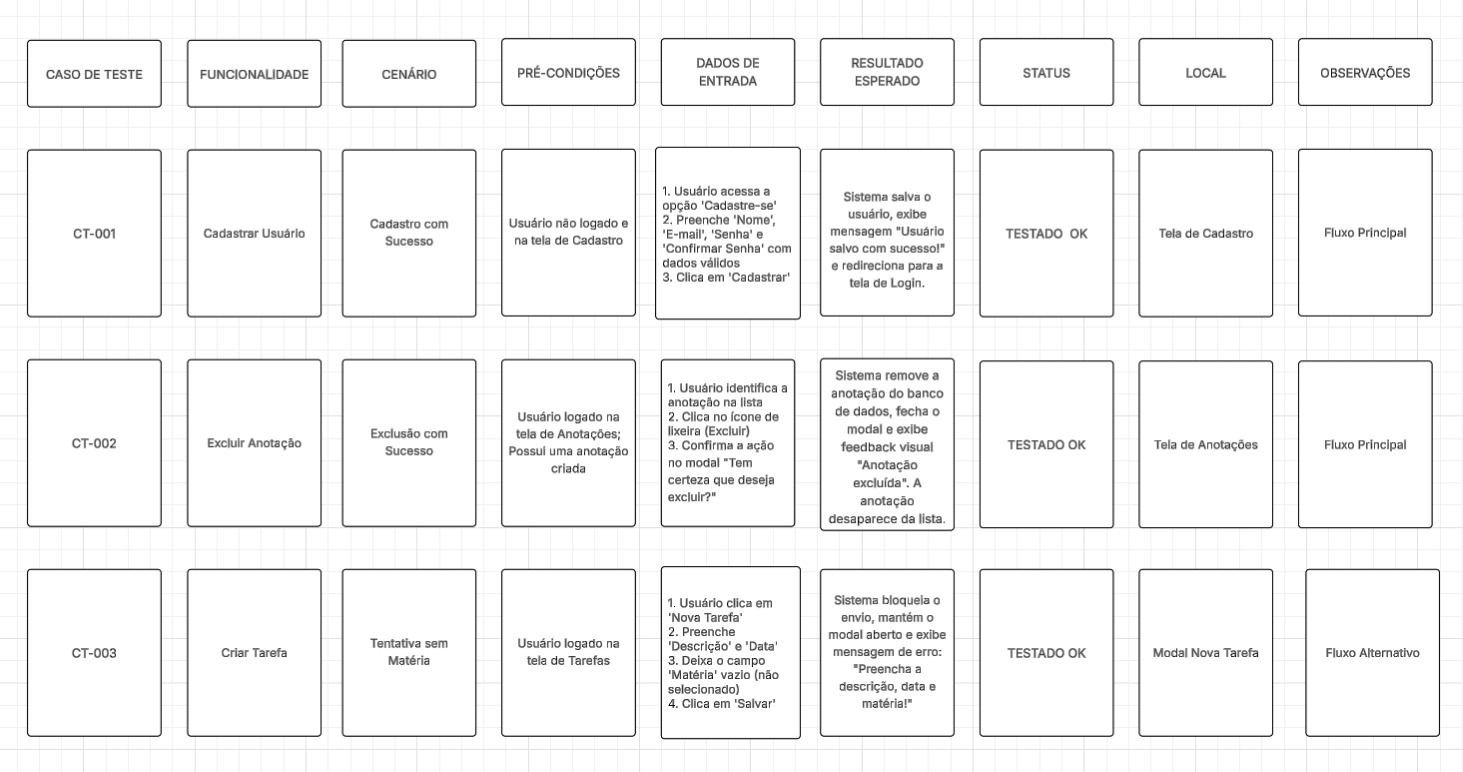
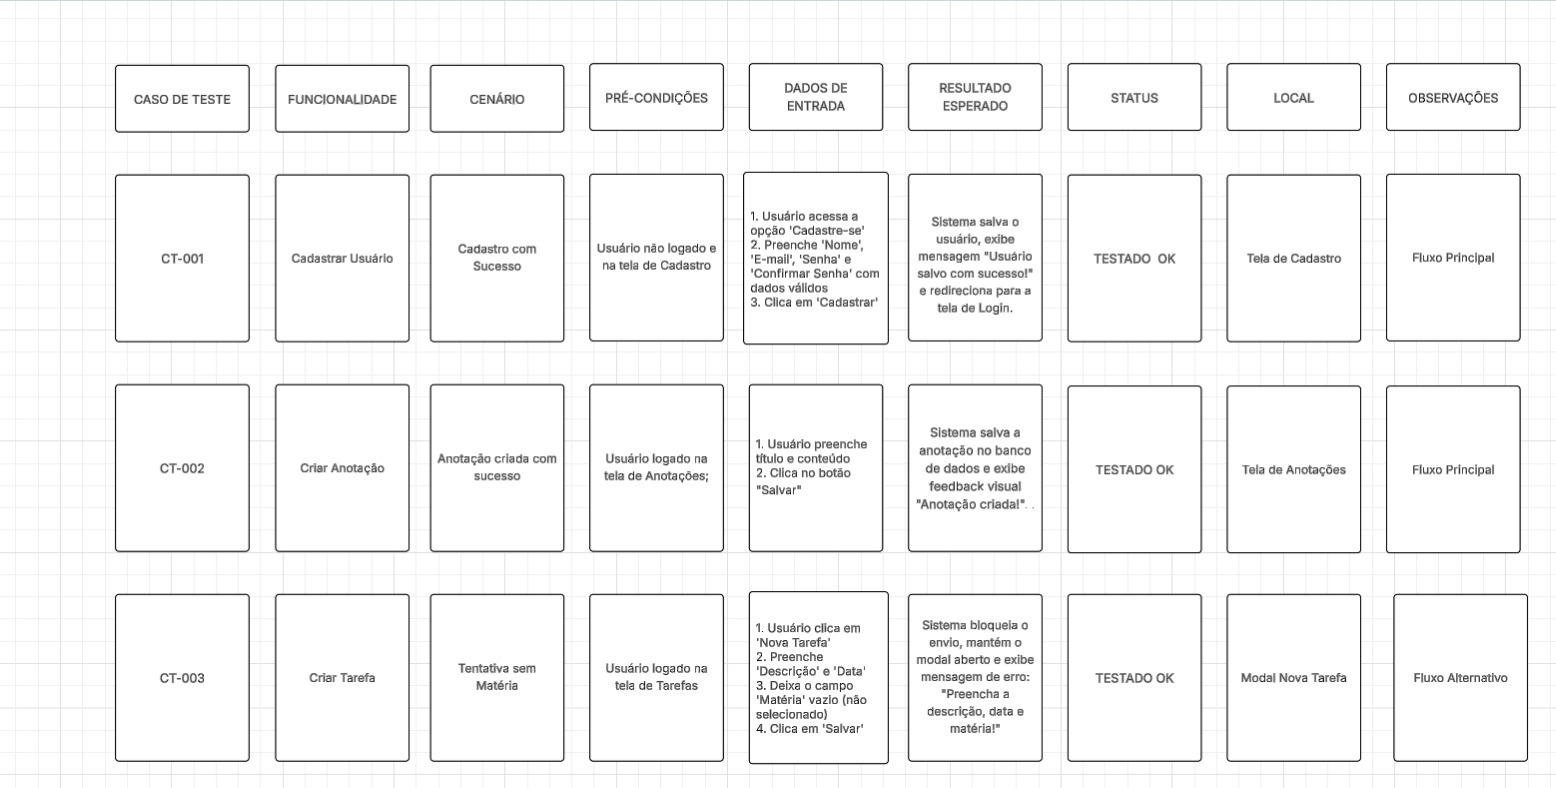
feat: implementando teste automatizado

diff --git a/Teste/teste.py b/Teste/teste.py
@@ -1,0 +1,204 @@
+from selenium import webdriver
+from selenium.webdriver.common.by import By
+from selenium.webdriver.chrome.service import Service
+from selenium.webdriver.support.ui import WebDriverWait
+from selenium.webdriver.support import expected_conditions as EC
+from webdriver_manager.chrome import ChromeDriverManager
+import time
+import random
+
+
+URL_BASE = "http://localhost:5173"
+USER_PASS = "123456"
+SLOW_MOTION = 2 
+
+
+servico = Service(ChromeDriverManager().install())
+driver = webdriver.Chrome(service=servico)
+driver.maximize_window()
+wait = WebDriverWait(driver, 10)
+
+def log(msg):
+    print(f"[TESTE] {msg}")
+
+def pausar():
+    time.sleep(SLOW_MOTION)
+
+def lidar_com_alerta_nativo(esperado=True):
+    """
+    Tenta focar e aceitar um alerta nativo (alert/confirm).
+    Se 'esperado' for True, ele espera o alerta aparecer.
+    """
+    try:
+
+        WebDriverWait(driver, 3).until(EC.alert_is_present())
+        alerta = driver.switch_to.alert
+        texto = alerta.text
+        log(f"   ⚠ Alerta Nativo detectado: '{texto}'")
+        alerta.accept() # Clica em OK
+        log("   ✅ Alerta aceito.")
+        time.sleep(1) # Dá um tempo para o navegador se recuperar
+    except:
+        if esperado:
+            log("   ⚠ Aviso: Esperava um alerta, mas ele não apareceu.")
+        else:
+            pass 
+
+try:
+
+    # 1. CT-001: CADASTRAR USUÁRIO
+
+    log("--- 1. Iniciando Cadastro ---")
+    driver.get(f"{URL_BASE}/cadastro")
+    
+    email_novo = f"aluno.{random.randint(10000, 99999)}@orkut.com"
+    log(f"   Usuário: {email_novo}")
+    
+    driver.find_element(By.ID, "nome").send_keys("Aluno Teste")
+    driver.find_element(By.ID, "email").send_keys(email_novo)
+    driver.find_element(By.ID, "senha").send_keys(USER_PASS)
+    driver.find_element(By.ID, "confirmar").send_keys(USER_PASS)
+    pausar()
+    
+    driver.find_element(By.XPATH, "//button[contains(text(), 'Cadastrar')]").click()
+    
+    # Verifica sucesso
+    try:
+        wait.until(EC.url_contains("/login"))
+        log("✅ Cadastro OK.")
+    except:
+        log("❌ Falha no cadastro.")
+
+    # 2. LOGIN
+
+    log("\n--- 2. Realizando Login ---")
+    wait.until(EC.visibility_of_element_located((By.ID, "email"))).send_keys(email_novo)
+    driver.find_element(By.ID, "senha").send_keys(USER_PASS)
+    driver.find_element(By.XPATH, "//button[contains(text(), 'Entrar')]").click()
+    
+    # Verifica se tem alerta de boas vindas ou erro
+    lidar_com_alerta_nativo(esperado=False)
+
+    wait.until(EC.url_contains("/dashboard"))
+    log("✅ Login OK.")
+
+
+    # 3. CT-002: CRIAR ANOTAÇÃO 
+
+    log("\n--- 3. Teste de Anotação (Apenas Criação) ---")
+    driver.get(f"{URL_BASE}/anotacoes")
+    
+    #  PREENCHER 
+    log("   Aguardando formulário de anotação...")
+    try:
+       
+        input_titulo = wait.until(EC.visibility_of_element_located((By.XPATH, "//input[@placeholder='Ex: Resumo de História']")))
+    except:
+        log("❌ Input de título não encontrado. A página carregou?")
+        raise
+
+    log("   Criando anotação...")
+    input_titulo.clear()
+    input_titulo.send_keys("Nota Teste Selenium")
+    
+
+    driver.find_element(By.TAG_NAME, "textarea").send_keys("Conteúdo da nota apenas para criação.")
+    pausar()
+    
+
+    log("   Salvando...")
+    # Busca o botão 'Salvar'
+    driver.find_element(By.XPATH, "//button[contains(text(), 'Salvar')]").click()
+    
+    # Lidar com Alerta de Sucesso 
+    lidar_com_alerta_nativo(esperado=True)
+    
+    pausar()
+
+
+    log("   Verificando se a nota apareceu na lista...")
+    try:
+        # Verifica se o texto apareceu na tela
+        wait.until(EC.visibility_of_element_located((By.XPATH, "//*[contains(text(), 'Nota Teste Selenium')]")))
+        log("✅ CT-006 PASSOU: Anotação criada e listada com sucesso.")
+    except:
+        log("❌ CT-006 FALHOU: A anotação não apareceu na lista.")
+
+
+   
+        
+        
+        
+
+    # 4. CT-005: TAREFA SEM MATÉRIA 
+
+    log("\n--- 4. Teste de Tarefa (Sem Matéria) ---")
+    driver.get(f"{URL_BASE}/tarefas")
+    
+
+    log("   Aguardando formulário carregar...")
+    try:
+    
+        input_desc = wait.until(EC.visibility_of_element_located((By.XPATH, "//input[@placeholder='Ex: Lista 01']")))
+
+    except:
+        log("❌ Campo de descrição não encontrado. Verifique se a página carregou.")
+        raise
+
+    pausar()
+    
+    # 2. Preenche a Descrição
+    log("   Preenchendo descrição...")
+    input_desc.clear()
+    input_desc.send_keys("Tarefa Sem Matéria Teste")
+    
+    # 3. Preenche a Data
+  
+    log("   Preenchendo data...")
+    try:
+      
+        input_data = driver.find_element(By.XPATH, "//input[@type='date']")
+        input_data.send_keys("31122025") 
+        pausar()
+    except:
+
+        input_desc.send_keys(Keys.TAB) 
+        driver.switch_to.active_element.send_keys("31122025")
+        pausar()
+
+    pausar()
+
+    # 4. Clica em "Criar" (Sem selecionar matéria)
+    log("   Clicando em Criar (Esperando erro de validação)...")
+    try:
+        # O botão na imagem é preto e diz "+ Criar" ou só "Criar"
+        driver.find_element(By.XPATH, "//button[contains(text(), 'Criar')]").click()
+        pausar()
+    except:
+        log("❌ Botão 'Criar' não encontrado.")
+
+
+    
+    # Verifica se continua na mesma URL 
+    if "/tarefas" in driver.current_url:
+        log("✅ CT-005 PASSOU: O sistema não navegou para outra página (Bloqueio funcionou).")
+        
+
+        elem_ativo = driver.switch_to.active_element
+        try:
+
+            tag_name = elem_ativo.tag_name
+            log(f"   Elemento após erro: <{tag_name}>")
+            pausar()
+        except:
+            pass
+    else:
+        log("❌ CT-005 FALHOU: O sistema permitiu criar sem matéria ou redirecionou.")
+
+except Exception as e:
+    log(f"💥 ERRO FATAL: {e}")
+
+finally:
+    log("\n--- Fim ---")
+    time.sleep(3)
+    driver.quit()
